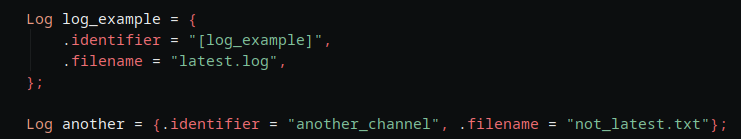
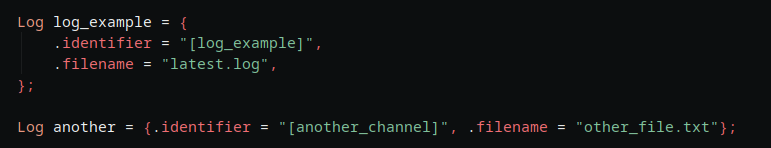
update example for more info on how to use it

Changed region(s): [[0.0, 0.8058, 0.9933, 0.9496], [0.0, 0.0863, 0.4345, 0.518], [0.0, 0.5468, 0.0621, 0.6331]]

diff --git a/examples/usage.c b/examples/usage.c
@@ -10,9 +10,15 @@ int main(void) {
         .filename = "latest.log",
     };
 
-    Log another = {.identifier = "another_channel", .filename = "not_latest.txt"};
+    Log another = {.identifier = "[another_channel]", .filename = "latest.log"};
 
-    log_trace(&log_example, "normal log with arguments at the end %d", 1);
+    /*Log another = {.identifier = "[another_channel]", .filename = "other_file.txt"};*/
+
+    log_trace(&log_example, "log_example");
+
+    log_warn(&another, "log another");
+    
+    
     log_warn(&log_example, "Warning with %d on the middle", 32);
     log_error(&log_example, "Error with no extra arguments");
     log_debug(&log_example, "debug example with x = %f", 3.14f);
